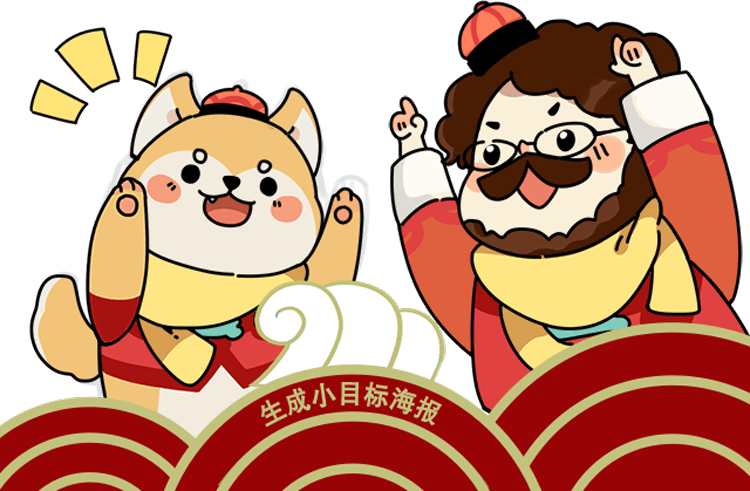
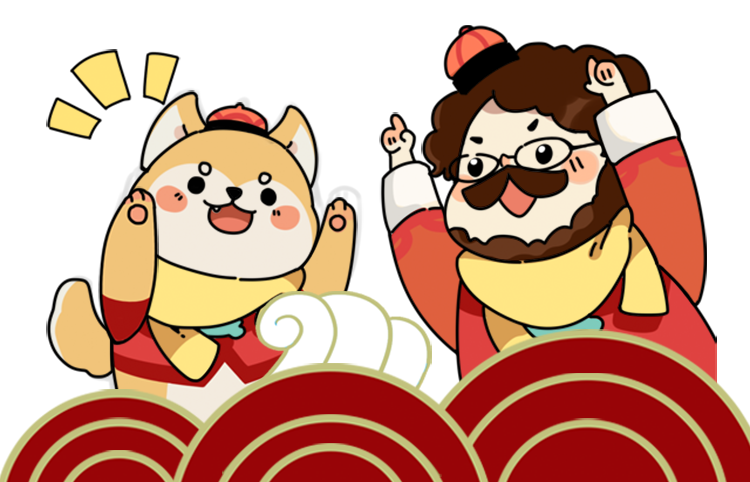
debug

diff --git a/view/templates/picture.html b/view/templates/picture.html
@@ -77,10 +77,10 @@
 			<img src="{{$imageSite}}sienmensLogo.jpg" alt="">
 		</div>
 		<!-- 提示部分 -->
-		<div class="saypeople">
-			<img src="{{$imageSite}}saypeopleIcon.png" alt="">
-			<p>告诉大家你的旺年小目标</p>
-		</div>
+		<!--<div class="saypeople">-->
+			<!--<img src="{{$imageSite}}saypeopleIcon.png" alt="">-->
+			<!--<p>告诉大家你的旺年小目标</p>-->
+		<!--</div>-->
 		<!-- 中心部分 -->
 		<div class="pictureCont">
 			<!-- 头像部分 -->
@@ -114,9 +114,9 @@
 				<img src="{{$imageSite}}urlCode.png" class="mycode" alt="">
 			</div>
 			<!-- 分享给朋友提示 -->
-			<div class="bottomShare">
-				<img src="{{$imageSite}}shareFriend.png" alt="">
-			</div>
+			<!--<div class="bottomShare">-->
+				<!--<img src="{{$imageSite}}shareFriend.png" alt="">-->
+			<!--</div>-->
 		</div>
 	</div>
 	<!-- 保存图片 -->

diff --git a/view/templates/css/index.css b/view/templates/css/index.css
@@ -400,3 +400,28 @@ canvas {
     transform: rotateZ(15deg);
   }
 }
+
+.footer-click img{
+  -webkit-animation:opcit 1s linear infinite;
+  animation:opcit 1s linear infinite;
+}
+@-webkit-keyframes opcit{
+  0%,100%{
+    opacity: 1;
+    -webkit-transform: scale(1);
+  }
+  50%{
+    opacity: 0.6;
+    -webkit-transform: scale(1.05);
+  }
+}
+@keyframes opcit{
+  0%,100%{
+    opacity: 1;
+    transform: scale(1);
+  }
+  50%{
+    opacity: 0.6;
+    transform: scale(1.05);
+  }
+}

diff --git a/view/templates/index.html b/view/templates/index.html
@@ -55,7 +55,9 @@
 			</div>
 			<img src="{{$imageSite}}indexFooter.png" alt="">
 			<!-- 点击部分 -->
-			<span class="footer-click"><a href="#" monitor="跳转生成图片页面,点击"></a></span>
+			<span class="footer-click"><a href="#" monitor="跳转生成图片页面,点击">
+				<img src="{{$imageSite}}gotoTpage.png" alt="">
+			</a></span>
 		</div>
 	</div>
 	<script src="{{$jsSite}}jquery.1.11.3.js"></script>
